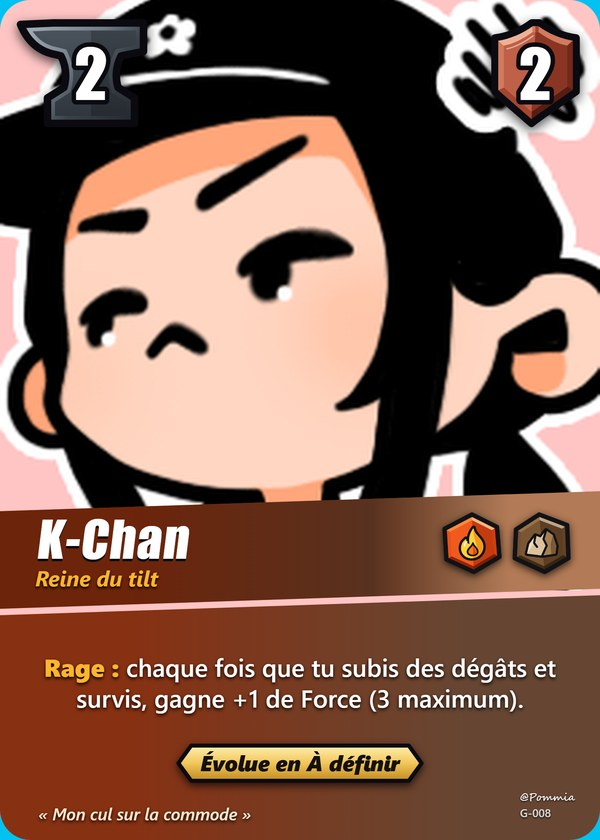
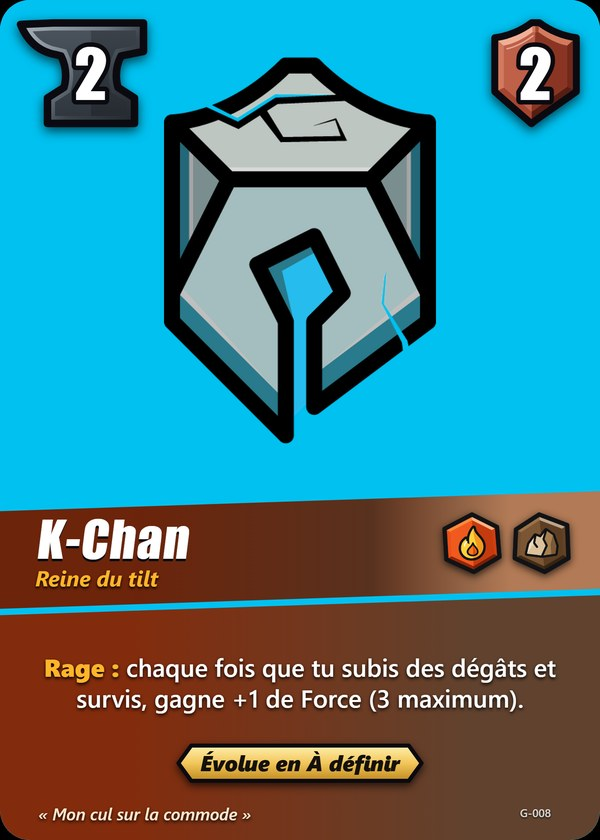
Courbe des coûts refaite, liste du deck plus lisible, onglets 17 px, K-Chan sans illustration

diff --git a/index.html b/index.html
@@ -759,18 +759,21 @@ body:has(#jouer[hidden]) :is(#scene,#passer){display:none}
   .d-panneau .dl-nom{flex-direction:row;align-items:baseline;gap:8px}
   .d-panneau .dl-pseudo{flex:none}
   .d-panneau .dl-titre{flex:1;min-width:0}
-  .d-panneau .dl-nom{font-size:14px;line-height:1.15}
-  .d-panneau .dl-els img{width:18px;height:18px}
+  .d-panneau .dl-nom{font-size:15.5px;line-height:1.15}
+  .d-panneau .dl-titre{font-size:13px}
+  .d-panneau .dl-cout,.d-panneau .dl-force,.d-panneau .dl-nb{font-size:17px}
+  .d-panneau .dl-els img{width:22px;height:22px}
+  .d-panneau{scrollbar-gutter:stable}
   /* Panneau condense : 30 cartes et la courbe des couts tiennent a 1280 x 800 sans defiler. */
   .d-panneau .d-haut{flex-wrap:nowrap;gap:6px}
   .d-panneau .d-haut h3{font-size:17px;white-space:nowrap;overflow:hidden;text-overflow:ellipsis}
   .d-panneau .d-haut:has(.ligne){flex-wrap:wrap}
   .d-panneau .dl-liste li+li{margin-top:1px}
-  .d-panneau .dl-ligne{min-height:27px;padding:1px 6px}
+  .d-panneau .dl-ligne{grid-template-columns:40px 40px 48px minmax(0,1fr) 30px;min-height:30px;padding:2px 6px}
   .d-panneau .dl-nom{line-height:1.05}
   .d-panneau .dl-pied{padding-top:6px;position:sticky;bottom:-12px;margin-bottom:-12px;padding-bottom:12px;background:var(--panneau);box-shadow:0 -6px 8px -6px rgba(0,0,0,.6)}
   .d-panneau .dl-total{margin-bottom:4px}
-  .d-panneau .dl-col i{height:calc(var(--v)*30px)}
+  .d-panneau .dl-col i{height:calc(var(--v)*32px)}
   .d-panneau .d-haut{margin-bottom:3px}
   /* Tuile etroite : boutons sur deux lignes de deux, jamais coupes. */
   @container (max-width:250px){#listeDecks#listeDecks .d-zone .d-act{grid-template-columns:repeat(2,minmax(0,1fr))}#listeDecks#listeDecks .d-zone .d-act>.btn{font-size:13px}.d-zone .d-tuile .d-haut h3{font-size:18px}}
@@ -794,11 +797,17 @@ body:has(#jouer[hidden]) :is(#scene,#passer){display:none}
 .dl-nb{text-align:right;font:400 16px/1 var(--titre);color:var(--or)}
 .dl-apercu{position:fixed;z-index:50;width:220px;height:308px;object-fit:contain;border-radius:10px;pointer-events:none;box-shadow:0 8px 24px rgba(0,0,0,.6)}
 .dl-pied{max-width:640px;margin:14px auto 0}
-.dl-total{margin:0 0 8px;font-weight:800}
-.dl-courbe{display:flex;align-items:flex-end;gap:6px;max-width:280px}
-.dl-col{flex:1;display:flex;flex-direction:column;align-items:center;justify-content:flex-end;gap:2px;font-size:13px;color:var(--doux)}
-.dl-col i{display:block;width:100%;height:calc(var(--v)*44px);min-height:0;border-radius:3px 3px 0 0;background:var(--bleu)}
-.dl-col small{font-size:12px;line-height:1}
+.dl-total{display:flex;justify-content:space-between;align-items:baseline;gap:10px;margin:0 0 8px;padding:0 8px}
+.dl-tot{font:400 18px/1 var(--titre);color:var(--or)}
+.dl-moy{font-size:14px;color:var(--doux)}.dl-moy b{font:400 18px/1 var(--titre);color:#01C1F0;margin-left:4px}
+.dl-courbe{display:grid;grid-template-columns:repeat(7,40px);justify-content:center;column-gap:10px;align-items:end;margin:0 auto}
+.dl-col{display:flex;flex-direction:column;align-items:center;justify-content:flex-end;gap:3px;padding:3px 0 2px;border-radius:6px;color:var(--doux);height:100%}
+.dl-col i{display:block;width:26px;height:calc(var(--v)*44px);border-radius:3px 3px 0 0;background:#01C1F0}
+.dl-col small{font:400 14px/1 var(--titre);color:#fff}
+.dl-pc{display:inline-flex;align-items:center;gap:2px;font:400 14px/1 var(--titre);color:var(--doux)}.dl-pc .ico{font-size:14px}
+.dl-col.dl-vide{opacity:.35}.dl-col.dl-vide small{color:var(--doux)}
+.dl-col.dl-moy-col{background:rgba(1,193,240,.13);box-shadow:inset 0 0 0 1px rgba(1,193,240,.4)}.dl-moy-col .dl-pc{color:#01C1F0}
+@media (max-width:440px){.dl-courbe{grid-template-columns:repeat(7,minmax(0,38px));column-gap:6px}.dl-col i{width:22px}.dl-total{padding:0 4px}}
 .d-limite{color:var(--or);font-weight:700}
 .dl-invalide{margin:0 0 8px}
 .d-panneau{scrollbar-width:thin;scrollbar-color:#3d4e5d transparent}
@@ -881,6 +890,8 @@ main:has(#historique:not([hidden])){padding-bottom:12px}
 .pastille,.modif,.p-outil,.onglets button{--bord:#121b24;background:linear-gradient(#3d4e5d,#283643);color:#e8eff4;box-shadow:inset 0 1px 0 rgba(255,255,255,.4),0 3px 0 var(--bord),0 5px 10px rgba(0,0,0,.35)}
 .j-btn,.pastille[aria-pressed=true],.onglets button[aria-selected=true]{--bord:#08708c;background:linear-gradient(#3bd2f7,#01aad6);color:var(--encre);box-shadow:inset 0 1px 0 rgba(255,255,255,.4),0 3px 0 var(--bord),0 5px 10px rgba(0,0,0,.35)}
 .onglets{gap:8px;padding-block:6px 9px}
+/* Onglets : 17 px et 44 px de haut partout (nav = 60 px, sous le top:64px des panneaux collants). */
+.onglets button:not(#_x#_x),body:has(#jouer.enJeu:not([hidden])) .onglets button:not(#_x#_x){min-height:44px;height:44px;font-size:17px;padding-block:0}
 :is(.pastille,.modif,.j-btn,.p-outil,.onglets button):not(:disabled):hover{filter:brightness(1.08);translate:0 -1px}
 :is(.pastille,.modif,.j-btn,.p-outil,.onglets button):not(:disabled):active{transform:none;translate:0 2px;box-shadow:inset 0 1px 0 rgba(255,255,255,.25),0 1px 0 var(--bord)}
 /* En-tete bleu ciel */
@@ -2508,12 +2519,16 @@ function decklist(b,d,l){
     li.append(q);u.append(li);
   });
   b.append(u,ap);
-  const tot=L.reduce((t,x)=>t+x.n,0),moy=L.reduce((t,x)=>t+x.n*x.C.cout,0)/tot,mx=Math.max(...L.map(x=>x.C.cout));
-  const pa=Array.from({length:mx+1},(_,i)=>L.filter(x=>x.C.cout===i).reduce((t,x)=>t+x.n,0)),hm=Math.max(...pa);
-  const pied=el('div','dl-pied'),cv=el('div','dl-courbe');
-  cv.setAttribute('role','img');cv.setAttribute('aria-label','Courbe de coûts : '+pa.map((v,i)=>v+' à '+i).join(', '));
-  pa.forEach((v,i)=>{const k=el('div','dl-col'),ba=el('i');ba.style.setProperty('--v',v/hm);k.append(el('small','',v?String(v):''),ba,el('span','',String(i)));cv.append(k)});
-  pied.append(el('p','dl-total',tot+' carte'+(tot>1?'s':'')+', coût moyen '+moy.toFixed(1).replace('.',',')),cv);
+  /* Pied : compte a gauche, cout moyen a droite ; courbe 0 a 6+ centree, colonne du cout moyen arrondi surlignee. */
+  const tot=L.reduce((t,x)=>t+x.n,0),moy=L.reduce((t,x)=>t+x.n*x.C.cout,0)/tot,im=Math.min(6,Math.round(moy));
+  const pa=Array.from({length:7},(_,i)=>L.filter(x=>i<6?x.C.cout===i:x.C.cout>=6).reduce((t,x)=>t+x.n,0)),hm=Math.max(1,...pa);
+  const pied=el('div','dl-pied'),cv=el('div','dl-courbe'),ent=el('div','dl-total'),mo=el('span','dl-moy');
+  mo.append('Coût moyen ',el('b','',moy.toFixed(1).replace('.',',')));
+  ent.append(el('b','dl-tot',tot+'/'+DECK_MAX),mo);
+  cv.setAttribute('role','img');cv.setAttribute('aria-label','Courbe de coûts : '+pa.map((v,i)=>v+' à '+(i<6?i:'6 ou plus')).join(', '));
+  pa.forEach((v,i)=>{const k=el('div','dl-col'+(v?'':' dl-vide')+(i===im?' dl-moy-col':'')),ba=el('i'),pc=el('span','dl-pc');ba.style.setProperty('--v',v/hm);
+    pc.append(ico('enclume'),i<6?String(i):'6+');k.append(el('small','',String(v)),ba,pc);cv.append(k)});
+  pied.append(ent,cv);
   b.append(pied);
 }
 function editeur(b,l,d){

diff --git a/tests/test_moteur.js b/tests/test_moteur.js
@@ -230,7 +230,7 @@ function finDeManche(s){s.joueur=1;s.premier=0;s.tour=3;M.applique(s,1,{t:'x'})}
   assert.strictEqual(B.mvp.score,B.mvp.force*M.POIDS_MVP.force+B.mvp.bonus*M.POIDS_MVP.bonus);
   assert.deepStrictEqual(B.tours[0],{manche:3,tour:3,joueur:1,energieGaspillee:0,pose:false});
   assert(B.joueurs[0].vuesNonPosees.length===1);
-  assert.strictEqual(M.VERSION,'0.2a');assert.strictEqual(M.CARTES['002e'].cout,3);assert.strictEqual(M.CARTES['004e'].cout,3);assert.strictEqual(M.CARTES['001'].cout,1);assert.strictEqual(T('La Faille').pts,2);
+  assert.strictEqual(M.VERSION,'0.2');assert.strictEqual(M.CARTES['002e'].cout,3);assert.strictEqual(M.CARTES['004e'].cout,3);assert.strictEqual(M.CARTES['001'].cout,1);assert.strictEqual(T('La Faille').pts,2);
   {let dbl=0;for(let g=1;g<200;g++){const u=vide();u.rng=[g,g*7];u.j[0].main=[9];u.j[0].energie=9;u.j[0].grille[0][0]=gol(6,3);M.applique(u,0,{t:'p',c:9,l:0,k:0});const m=/lance (\d) et (\d) : Force (\d+)/.exec(u.log.map(x=>x[1]).join(' '));assert(m);const[a,b,f]=[+m[1],+m[2],+m[3]];if(a===b)dbl++;assert.strictEqual(f,a===b?a:a+b,'KEKWRevan')}assert(dbl)}
   assert.strictEqual(M.TAILLE_DECK,33);
   for(let c=0;c<33;c++){assert.strictEqual(M.decode(M.code({t:'f',c})).c,c);assert.strictEqual(M.decode(M.code({t:'p',c,l:2,k:1})).c,c)}
